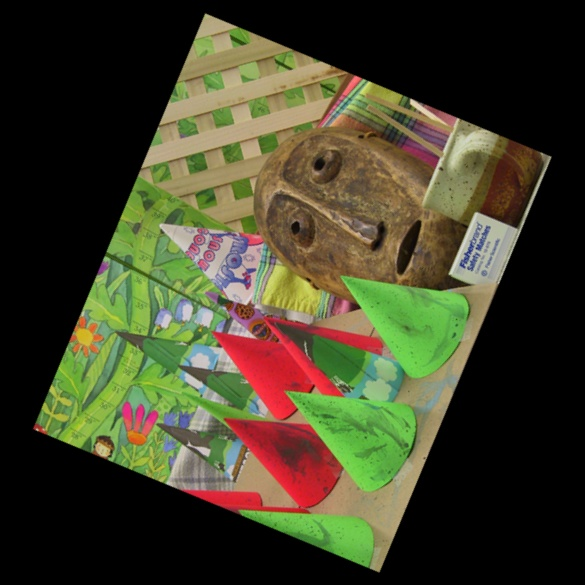
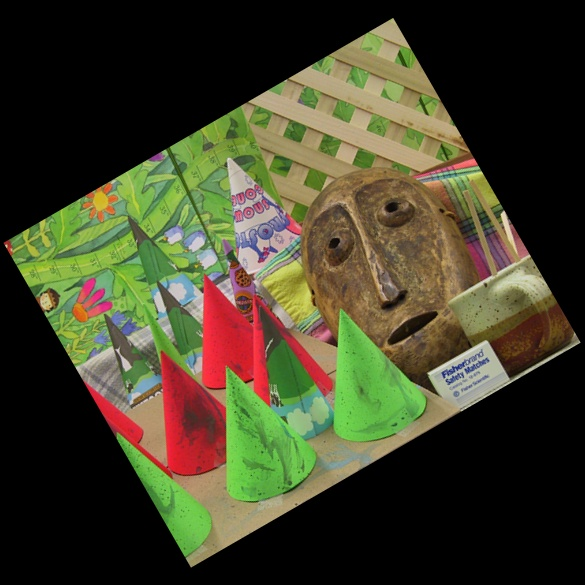
adding multiple rotations
making it so you can rotate the image multiple times.

diff --git a/ProjectFiles/CSC-340/Assignment1.py b/ProjectFiles/CSC-340/Assignment1.py
@@ -59,8 +59,10 @@ image1 = cv2.imread("ProjectFiles/CSC-340/Media/cones1.png")
 if image1 is None:
     print("Error: Image not found or could not be loaded.")
 else:
+    # Define the number of rotations to perform
+    rotate_number = 1
     # Rotate image
-    rotated_image = rotate_image(image1, 45)
+    rotated_image = rotate_image(image1, 30 * rotate_number)
 
     # Save the rotated image to the specified path
     save_path = "ProjectFiles/CSC-340/Media/rotated_image.jpg"
